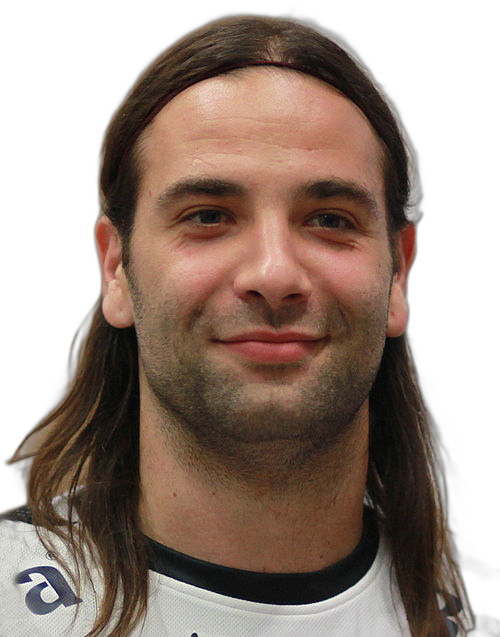
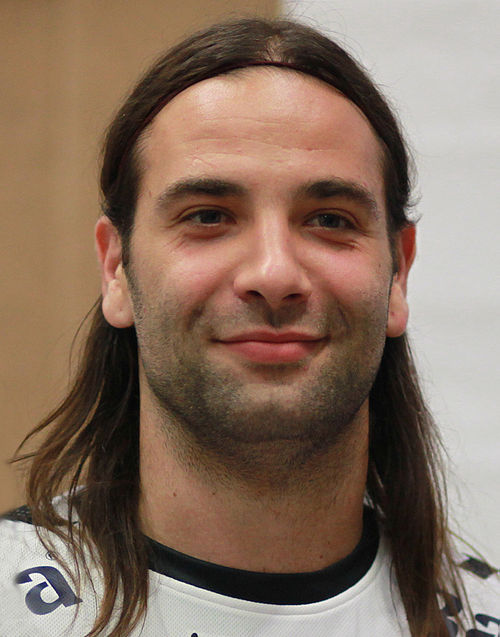
Sélection supprimer ou non arrière plan

diff --git a/uitemplate.html b/uitemplate.html
@@ -18,6 +18,7 @@
             display: flex;
             flex-wrap: wrap;
             align-items: center;
+            gap: 2em;
         }
         .image-selector {
             display: none;
@@ -35,6 +36,8 @@
     <select name="periods" id="periods">
         <!--datestopropose-->
       </select>
+      <input type="checkbox" id="crop-check" checked>
+      <label>Supprimer arrière-plan</label>
       <div id="keywordslist">
 
       </div>
@@ -52,6 +55,7 @@
         function loadPeriodJs(keywords) {
             let el = document.getElementById('keywordslist');
             el.innerHTML = '';
+            el.hidden=true;
             for(let keyword of keywords){
                 let id = keyword.split(" ").join("-");
                 const vignette = document.createElement('div');
@@ -61,42 +65,23 @@
                 el.appendChild(vignette);
             }
             eel.illustratePeriodPy(keywords);
+            el.hidden=false;
         }
         
         eel.expose(illustratePeriodJs);
         function illustratePeriodJs(periodinfos){
-            console.log(periodinfos)
             for(let keywordinfo of periodinfos){
                 let id = 'file-upload-'+keywordinfo.keyword.split(" ").join("-");
                 if(keywordinfo.illustration.length>0){
+                    if(document.getElementById('crop-check').checked)keywordinfo.illustration =keywordinfo.keyword+'_cropped.png';
                     fetch('images/'+(keywordinfo.illustration)).then(response => response.blob()).then(blob=>{
                         let input = document.getElementById(id);
                         let label = input.parentElement.childNodes[1];
-                        label.innerHTML='';
+                        label.innerHTML = '';
                         changeImage(label,blob);
                     })
                 }
             }
-            // let el = document.getElementById('kewordslist')
-            // el.innerHTML = '';
-            // for(let keywordinfo of periodinfos){
-            //     // récupération de l'image générée dans le dossier 'images'
-            //     fetch('images/'+(keywordinfo.illustration))
-            //     .then(response => response.blob())
-            //     .then(blob => {
-            //         // création de l'élélement image
-            //         const img = document.createElement('img');
-            //         img.src = URL.createObjectURL(blob);
-            //         img.className='illustration';
-            //         // encapsulation de l'élément dans des div (pour légender l'image)
-            //         const vignette = document.createElement('div');
-            //         vignette.className='vignette';
-            //         vignette.innerHTML='<span class="description">'+keywordinfo.keyword+'</span>';
-            //         vignette.appendChild(img);
-            //         el.appendChild(vignette);
-            //         console.log(vignette)
-            //     })
-            // }
         }
 
 
@@ -105,7 +90,7 @@
             if (file) {
                 const blob = new Blob([file], { type: file.type });
                 let label = evt.srcElement.parentElement.childNodes[1];
-                label.innerHTML=''
+                labek.innerHTML='';
                 changeImage(label,blob);
             }
         }
@@ -115,6 +100,28 @@
             img.src = URL.createObjectURL(blob);
             parent.appendChild(img)
         }
+
+        document.getElementById('crop-check').addEventListener('change',(evt)=>{
+           let checked = evt.currentTarget.checked;
+           let labels =Array.from(document.getElementById('keywordslist').getElementsByTagName('label'));
+           fetch("keywords_illustration.json").then(res=>res.json()).then(allkeywordsinfo=>{
+               for (let label of labels){
+                   let id = label.getAttribute('for')
+                   let keyword = label.getAttribute('for').replace('file-upload-',"")
+                   let path = 'images/'+allkeywordsinfo[keyword].illustration;
+                   if(checked)path ='images/'+keyword+'_cropped.png';
+                   if(allkeywordsinfo[keyword].illustration.length>0){
+                        fetch(path).then(response => response.blob()).then(blob=>{
+                                let input = document.getElementById(id);
+                                let label = input.parentElement.childNodes[1];
+                                label.innerHTML = '';
+                                changeImage(label,blob);
+                            })
+                    }
+                }
+            })
+
+        })
     </script>
 </body>
 </html>

diff --git a/scripts/web/index.html b/scripts/web/index.html
@@ -18,6 +18,7 @@ height: 100px;
 display: flex;
 flex-wrap: wrap;
 align-items: center;
+gap: 2em;
 }
 .image-selector {
 display: none;
@@ -47,6 +48,8 @@ align-items: center;
 <option value="2021">2021</value>
 <option value="2022">2022</value>
 </select>
+<input type="checkbox" id="crop-check" checked>
+<label>Supprimer arrière-plan</label>
 <div id="keywordslist">
 
 </div>
@@ -64,6 +67,7 @@ eel.expose(loadPeriodJs);
 function loadPeriodJs(keywords) {
 let el = document.getElementById('keywordslist');
 el.innerHTML = '';
+el.hidden=true;
 for(let keyword of keywords){
 let id = keyword.split(" ").join("-");
 const vignette = document.createElement('div');
@@ -73,42 +77,23 @@ vignette.innerHTML+='</div>';
 el.appendChild(vignette);
 }
 eel.illustratePeriodPy(keywords);
+el.hidden=false;
 }
 
 eel.expose(illustratePeriodJs);
 function illustratePeriodJs(periodinfos){
-console.log(periodinfos)
 for(let keywordinfo of periodinfos){
 let id = 'file-upload-'+keywordinfo.keyword.split(" ").join("-");
 if(keywordinfo.illustration.length>0){
+if(document.getElementById('crop-check').checked)keywordinfo.illustration =keywordinfo.keyword+'_cropped.png';
 fetch('images/'+(keywordinfo.illustration)).then(response => response.blob()).then(blob=>{
 let input = document.getElementById(id);
 let label = input.parentElement.childNodes[1];
-label.innerHTML='';
+label.innerHTML = '';
 changeImage(label,blob);
 })
 }
 }
-// let el = document.getElementById('kewordslist')
-// el.innerHTML = '';
-// for(let keywordinfo of periodinfos){
-//     // récupération de l'image générée dans le dossier 'images'
-//     fetch('images/'+(keywordinfo.illustration))
-//     .then(response => response.blob())
-//     .then(blob => {
-//         // création de l'élélement image
-//         const img = document.createElement('img');
-//         img.src = URL.createObjectURL(blob);
-//         img.className='illustration';
-//         // encapsulation de l'élément dans des div (pour légender l'image)
-//         const vignette = document.createElement('div');
-//         vignette.className='vignette';
-//         vignette.innerHTML='<span class="description">'+keywordinfo.keyword+'</span>';
-//         vignette.appendChild(img);
-//         el.appendChild(vignette);
-//         console.log(vignette)
-//     })
-// }
 }
 
 
@@ -117,7 +102,7 @@ const file = event.target.files[0];
 if (file) {
 const blob = new Blob([file], { type: file.type });
 let label = evt.srcElement.parentElement.childNodes[1];
-label.innerHTML=''
+labek.innerHTML='';
 changeImage(label,blob);
 }
 }
@@ -127,6 +112,28 @@ const img = document.createElement('img');
 img.src = URL.createObjectURL(blob);
 parent.appendChild(img)
 }
+
+document.getElementById('crop-check').addEventListener('change',(evt)=>{
+let checked = evt.currentTarget.checked;
+let labels =Array.from(document.getElementById('keywordslist').getElementsByTagName('label'));
+fetch("keywords_illustration.json").then(res=>res.json()).then(allkeywordsinfo=>{
+for (let label of labels){
+let id = label.getAttribute('for')
+let keyword = label.getAttribute('for').replace('file-upload-',"")
+let path = 'images/'+allkeywordsinfo[keyword].illustration;
+if(checked)path ='images/'+keyword+'_cropped.png';
+if(allkeywordsinfo[keyword].illustration.length>0){
+fetch(path).then(response => response.blob()).then(blob=>{
+let input = document.getElementById(id);
+let label = input.parentElement.childNodes[1];
+label.innerHTML = '';
+changeImage(label,blob);
+})
+}
+}
+})
+
+})
 </script>
 </body>
 </html>

diff --git a/scripts/ui.py b/scripts/ui.py
@@ -117,7 +117,7 @@ def _illustrate_keywords(keywords : list[str],parsers : list[ImageParser],save_i
         if  len(url)>0: # On sauve l'image si on a trouvé une url
             illustration = _imagenameformat(url, keyword)
             if not os.path.exists(UI_FOLDER+'/images/' + illustration):
-                saveImage(url, keyword)
+               illustration= saveImage(url, keyword,both=True)
         keywords_infos.append({
             "keyword":keyword,
             "url":url,
@@ -143,22 +143,23 @@ def _imagenameformat(url,imagename=None,background=False):
     return imagename
 
 
-def saveImage(url : str,imagename=None,background=False):
+def saveImage(url : str,imagename=None,background=False,both=False):
     """
     loads and saves an image from an url in the UI_FOLDER
     background indicates the presence of background
     imagename is a name of image (without its format)
+    if both is true, it saves the image with AND without the bg
     """
     img = imagelib.loadimage(url)
-    if not background : 
-        img = imagelib.rembg(img)
-    imagename = _imagenameformat(url,imagename,background)
-    path = UI_FOLDER+"/images/"+imagename
-    imagelib.saveImage(img,path)
-    #waits for the images to be loaded
-    while(not os.path.exists(path)):pass
-    print(path)
-    return imagename
+    root = UI_FOLDER+"/images/"
+    if  background or both:
+        fullname = _imagenameformat(url,imagename,False)
+        imagelib.saveImage(img,root+fullname)
+    if not background or both:
+        img_nobg = imagelib.rembg(img)
+        fullname = _imagenameformat(url,imagename+'_cropped',False)
+        imagelib.saveImage(img_nobg,root+fullname)
+    return fullname
     
 
 def _findImageLinks(parser : ImageParser,keywordsurls:dict[str,str]):

diff --git a/scripts/imagelib.py b/scripts/imagelib.py
@@ -38,7 +38,7 @@ def showImage(img : Image):
     img.show()
 
 def saveImage(img : Image,filename):
-    img.save(filename, quality=85)
+    img.save(filename, quality=100)
     
 
 def rembg(img : Image):
